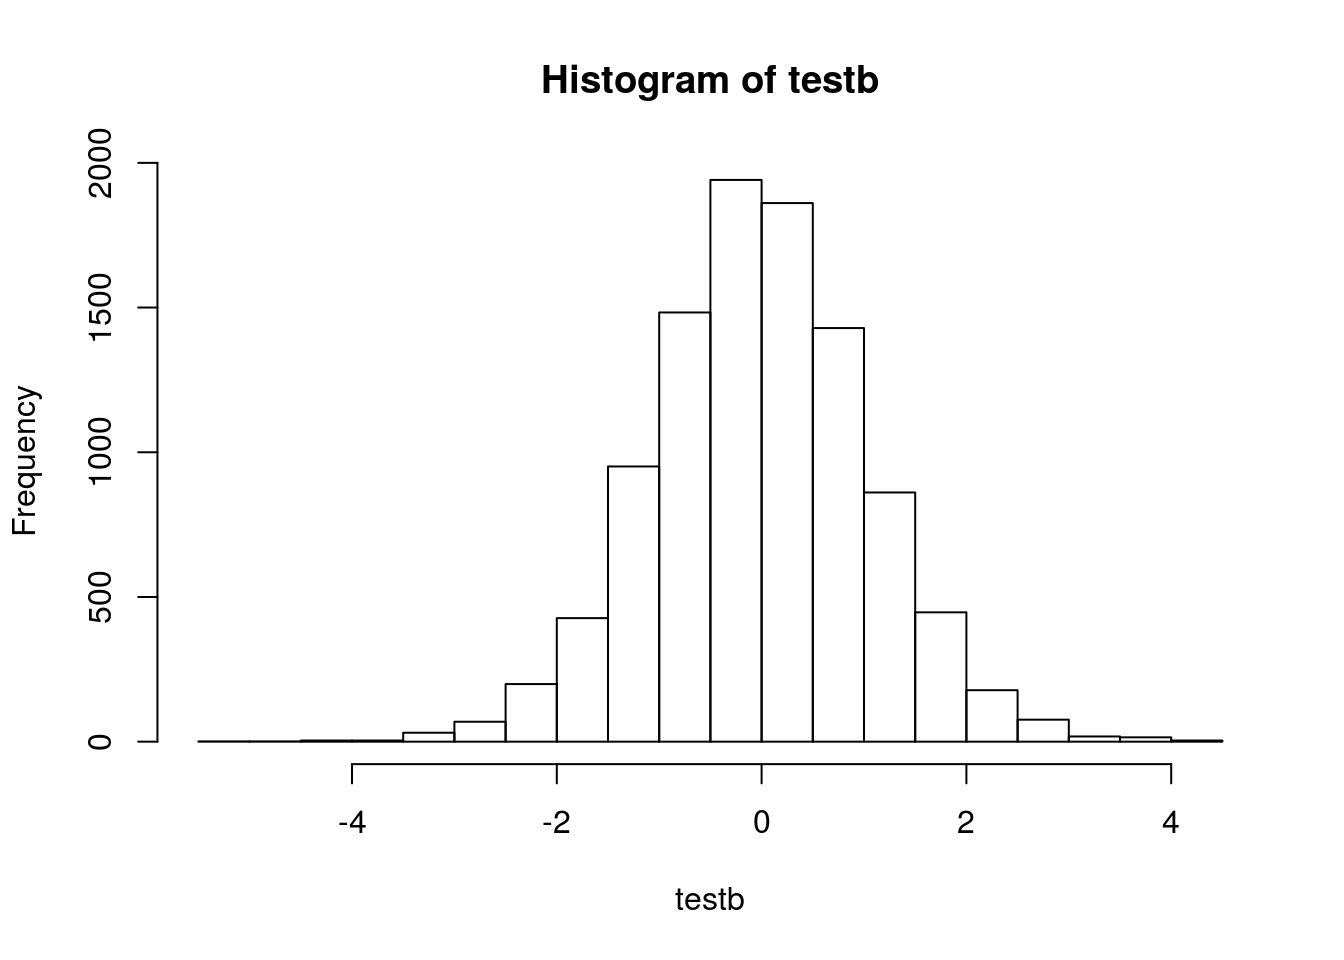
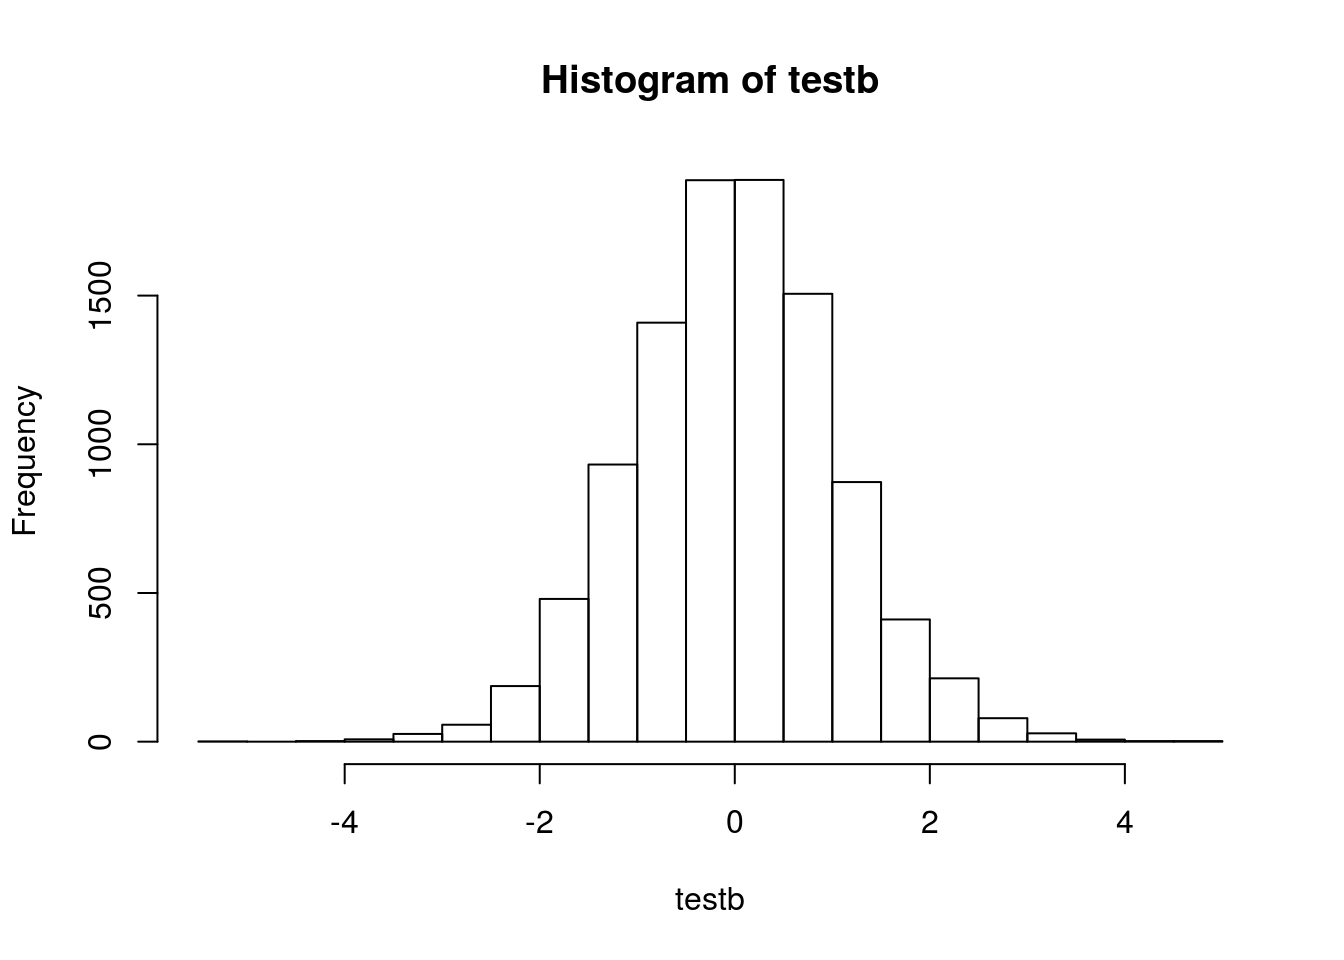
t-test portion

diff --git a/docs/stats.html b/docs/stats.html
@@ -416,7 +416,7 @@ div.tocify {
 
 <div id="null-distribution-of-mean-differences" class="section level1">
 <h1>Null Distribution of Mean Differences</h1>
-<p>Assume your samples come from a normal distribution with mean =0, sd =1. (use rnorm) Assume sample size for each sample is n =10 (e.g., rnorm(10,0,1)) Create the null-distribution: Run a simulation 10,000 times that finds the difference between means of sample A and B. You should have a vector of 10,000 difference scores Assume an alpha criteria of p&lt;.05 for a directional test. What is the critical value for a positive mean difference? In other words, how large must a positive mean difference be in order to occur less than 5% of the time under the null? Assume an alpha criteria of p&lt;.05 for a non-directional test. What is the critical value for the absolute value of the mean difference. In other words, how large must the absolute value of the mean difference be in order to occur less than 5% of the time under the null?</p>
+<p>Assume an alpha criteria of p&lt;.05 for a directional test. What is the critical value for a positive mean difference? In other words, how large must a positive mean difference be in order to occur less than 5% of the time under the null? Assume an alpha criteria of p&lt;.05 for a non-directional test. What is the critical value for the absolute value of the mean difference. In other words, how large must the absolute value of the mean difference be in order to occur less than 5% of the time under the null?</p>
 <pre class="r"><code>#Normal Distribution M=0, SD=1
 
 #rnorm(10,0,1)
@@ -445,19 +445,33 @@ hist(testb)</code></pre>
 <p>Create a simulated t-distribution for the null hypothesis with df=9. Here, the model situation involves taking samples of size n=10 from a normal distribution. The t-value is computed for each sample (sample mean - 0)/SEM. The process is repeated 10,000 times, and each t-value is saved. The resulting 10,000 t-values are the simulated t-distribution.</p>
 <p>Using the simulated t-distribution, find the probability of t(9) &gt;= .5, 1, 1.5, 2, and 2.5</p>
 <p>Compare the two sets of probabilities to show that the difference is small. What happens to the difference if the simulation is repeated fewer times (e.g., 100) vs. more times (e.g., 100,000)</p>
+<pre class="r"><code>ttest&lt;-function(t,df)
+{
+  return((1-pt(q=abs(t),df=df))*2)
+}
+ttest(.5,9)</code></pre>
+<pre><code>## [1] 0.6290713</code></pre>
+<pre class="r"><code>ttest(1,9)</code></pre>
+<pre><code>## [1] 0.3434364</code></pre>
+<pre class="r"><code>ttest(1.5,9)</code></pre>
+<pre><code>## [1] 0.1678507</code></pre>
+<pre class="r"><code>ttest(2,9)</code></pre>
+<pre><code>## [1] 0.07655282</code></pre>
+<pre class="r"><code>ttest(2.5,9)</code></pre>
+<pre><code>## [1] 0.03386183</code></pre>
 <pre class="r"><code>Scores &lt;- rnorm(10, mean = 0, sd = 1)
 t.test(Scores,mu=0)</code></pre>
 <pre><code>## 
 ##  One Sample t-test
 ## 
 ## data:  Scores
-## t = -0.94412, df = 9, p-value = 0.3698
+## t = 1.1167, df = 9, p-value = 0.293
 ## alternative hypothesis: true mean is not equal to 0
 ## 95 percent confidence interval:
-##  -1.1221516  0.4612962
+##  -0.2674168  0.7888633
 ## sample estimates:
-##  mean of x 
-## -0.3304277</code></pre>
+## mean of x 
+## 0.2607233</code></pre>
 </div>
 <div id="correlation" class="section level1">
 <h1>Correlation</h1>
